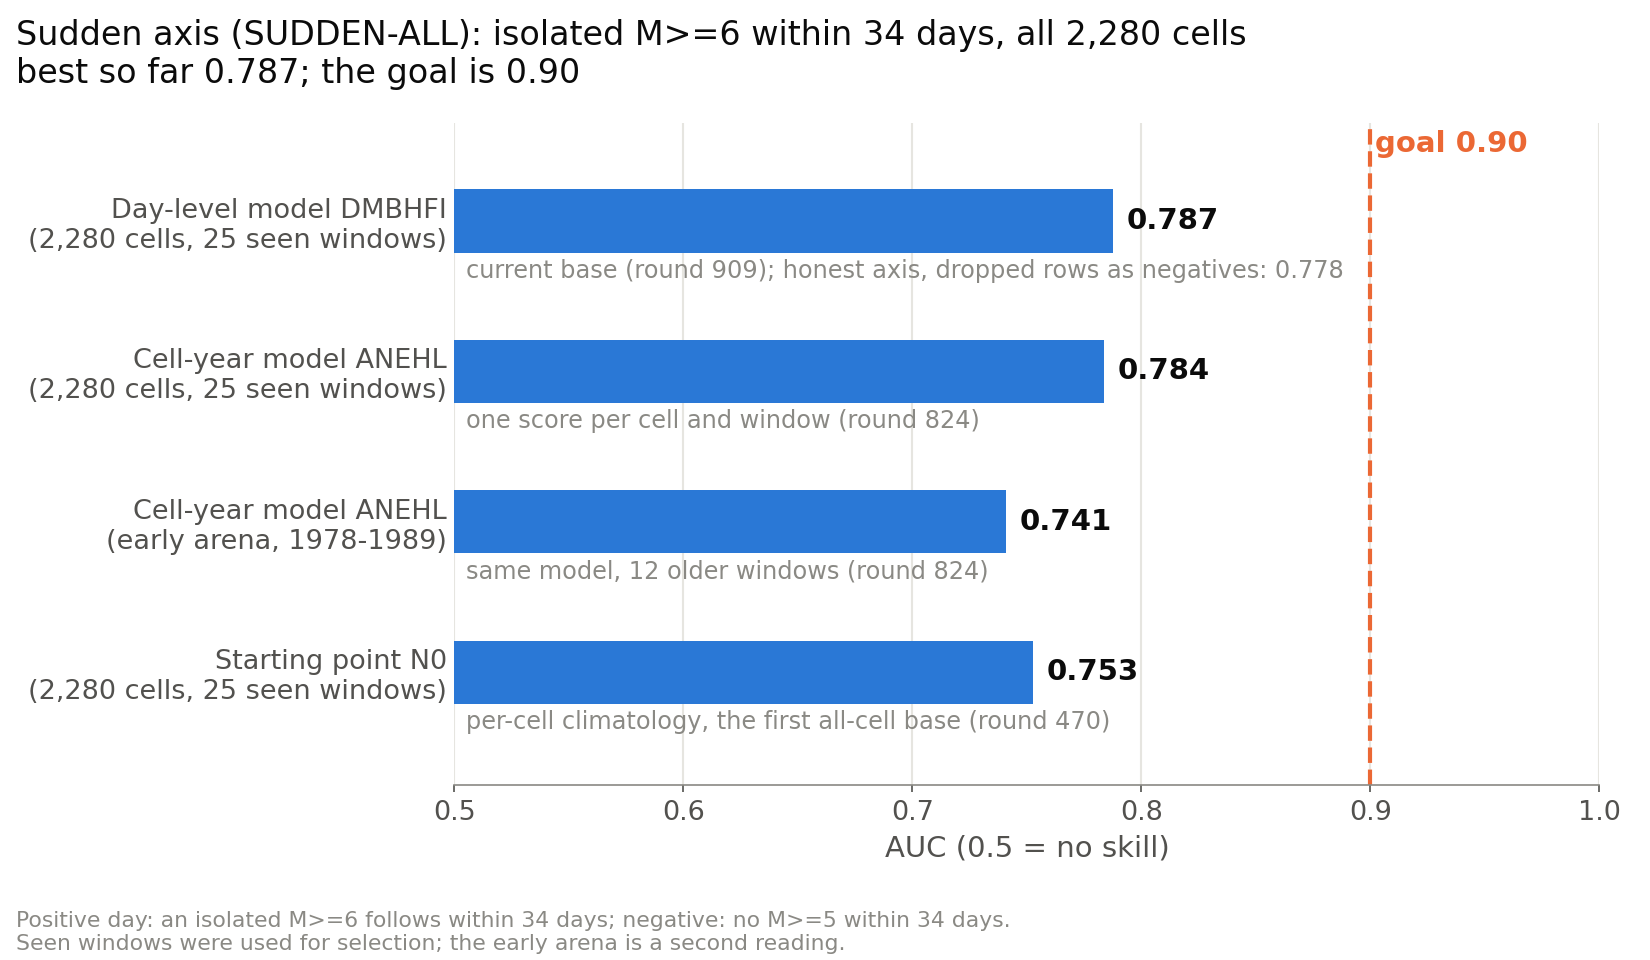
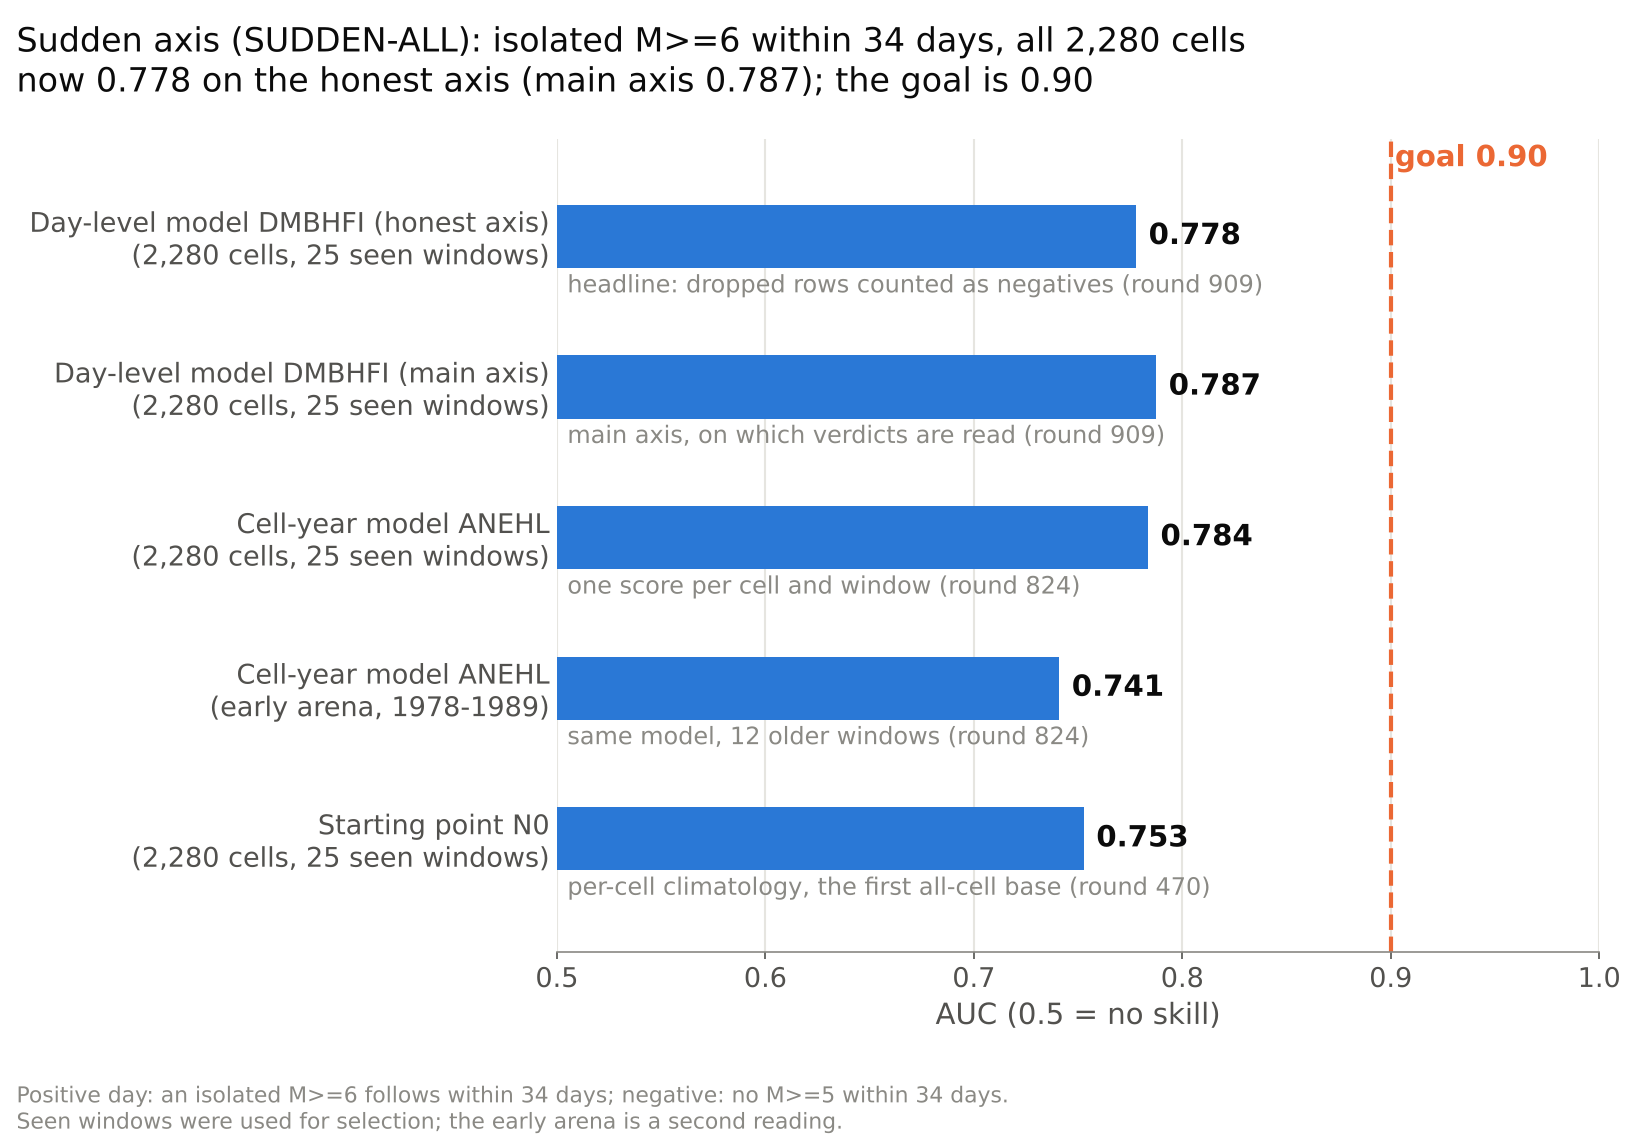
Update 196; honest axis 0.778 as the headline (#233)
* Add a note: older pooled 0.90-0.92 AUCs are not sudden-mainshock skill

Claude-Session: https://claude.ai/code/session_01Qxf5chyvwNeB8zBdWUwujx

* Update 196; honest axis 0.778 as the headline (note, figure 1); 14 pilot rows

Claude-Session: https://claude.ai/code/session_01Qxf5chyvwNeB8zBdWUwujx

---------

diff --git a/research/sudden_axis/make_figs.py b/research/sudden_axis/make_figs.py
@@ -65,9 +65,12 @@ def fig1():
     ax.set_xlim(0.5, 1.0)
     ax.set_ylim(-0.75, len(rows) - 0.35)
     ax.set_xlabel("AUC (0.5 = no skill)", fontsize=14)
-    hi = max(r["auc"] for r in rows)
+    honest = [r for r in rows if "(honest axis)" in r["arena"]]
+    main = [r for r in rows if "(main axis)" in r["arena"]]
+    assert len(honest) == 1 and len(main) == 1, "stand.csv needs one honest-axis and one main-axis row"
     fig.suptitle("Sudden axis (SUDDEN-ALL): isolated M>=6 within 34 days, all 2,280 cells\n"
-                 "best so far %.3f; the goal is %.2f" % (hi, GOAL), fontsize=16, x=0.01, ha="left", color=INK)
+                 "now %.3f on the honest axis (main axis %.3f); the goal is %.2f"
+                 % (honest[0]["auc"], main[0]["auc"], GOAL), fontsize=16, x=0.01, ha="left", color=INK)
     style(ax)
     fig.text(0.01, 0.01, "Positive day: an isolated M>=6 follows within 34 days; negative: no M>=5 within 34 days.\n"
              "Seen windows were used for selection; the early arena is a second reading.", fontsize=10.5, color=MUTED)

diff --git a/RESEARCH-LOG.md b/RESEARCH-LOG.md
@@ -8,7 +8,7 @@
 >
 > 本リポジトリは個人の研究および開発の記録です。地震の予知・予測・予報・警報その他の運用情報ではなく、いかなる警報も発信しません。記載の数値は公開カタログを用いた事後的な研究指標であり、探索段階のもので、誤りを含む可能性があり、実運用に向けた検証は行っていません。安全確保・避難・事業判断その他の防災上の判断に、本リポジトリの内容を用いないでください。日本の地震・火山の公式情報は気象庁（https://www.jma.go.jp/）および各自治体の発表をご確認ください。本リポジトリの内容は現状のまま無保証で提供され、利用により生じたいかなる損害についても作者は責任を負いません。データの権利は Data Attribution 節に記載の各提供元に帰属します。
 
-> **Note on the 0.90-0.92 figures in older entries (added 2026-11-19).** The AUCs of about 0.90-0.92 in earlier updates (mostly 55-116, e.g. 0.907265, 0.9207) are *pooled* figures. Most of their skill comes from aftershock positives, so they do not measure skill at forecasting sudden (isolated) mainshocks. Since update 189 the main yardstick is the SUDDEN-ALL axis, where the current working series reads **0.787474** (honest axis 0.778). The goal of 0.90 has not been reached. The older entries are kept unedited.
+> **Note on the 0.90-0.92 figures in older entries (added 2026-11-19).** The AUCs of about 0.90-0.92 in earlier updates (mostly 55-116, e.g. 0.907265, 0.9207) are *pooled* figures. Most of their skill comes from aftershock positives, so they do not measure skill at forecasting sudden (isolated) mainshocks. Since update 189 the main yardstick is the SUDDEN-ALL axis, where the current working series reads **0.778** on the honest axis (dropped rows counted as negatives) and 0.787474 on the main axis, on which verdicts are read. The goal of 0.90 has not been reached. The older entries are kept unedited.
 
 Every research narrative entry from the README, moved here unchanged on 2026-08-23 when the file passed 2,000 lines.  The entries are in the order they were written, oldest first; the index below is newest first.  Nothing has been edited: each entry is the line that was published, byte for byte, with a heading added above it so it can be linked to.
 
@@ -16,6 +16,7 @@ Every research narrative entry from the README, moved here unchanged on 2026-08-
 
 | # | date | what it says |
 |---|---|---|
+| [196](#update-196-2026-11-22) | 2026-11-22 | rounds 1043-1068: a campaign toward 0.80 with look-ahead room checks before any arm (0 of 8 slots used), the feature space on and beyond the base read for room, eight more non-catalogue sources; nothing moved the number (honest axis 0.778, main axis 0.787474) |
 | [195](#update-195-2026-11-18) | 2026-11-18 | rounds 992-1042: new catalogue parameter groups and more than twenty non-catalogue sources read, none admitted; the missing order lies mostly in quiet-looking cells and between strata; three more arms frozen for 2027 |
 | [194](#update-194-2026-11-17) | 2026-11-17 | where the working series stands (0.787474, unchanged since round 909) and what is read next: frozen arms rebuilt on window 36, 2027 fits after 2026-12-15 |
 | [193](#update-193-2026-11-17) | 2026-11-17 | events below the catalogue floor: the one family with a reading beyond its nulls is not supported as a route at this size; an offshore reading after the seafloor networks is frozen for re-reading |
@@ -1013,3 +1014,7 @@ Every research narrative entry from the README, moved here unchanged on 2026-08-
 ## update 195 (2026-11-18)
 
 **2026-11-18 update 195 (rounds 992 to 1042: about thirty new catalogue parameter groups and more than twenty further non-catalogue sources read, none admitted; the missing order lies mostly in quiet-looking cells and between strata; three more arms frozen for 2027).** The main number has not moved: 0.787474 on the 25 seen windows of the main sudden axis (honest axis 0.777844), 0.1125 short of 0.90. Before the prospective fits, the frozen arms were ported so that they can be fitted on window 37, and a port was accepted only if the same code in window-36 mode reproduces the stored prediction: 42 of 42 do. On the catalogue side I read parameter families that no earlier round had read, on the cell-year screen of update 190 (seen gain at least 0.0006 with t at least 3, and early gain above 0): cycle phase with the cell's own regularity, outer-rise state, natural-time nowcasting, depth migration, magnitude correlation and regional synchrony (995), the rupture character of recent events (997), the loading budget of a cell (elapsed time scaled by loading rate, moment deficit, last-event size and age; 1000), tidal sensitivity of a cell's own events (1005), fractal dimension, entropy and Hurst exponent of event sequences, along-strike segment state and load-unload response ratio (1006), focal-mechanism diversity, precursory-swarm state and recurrence-network measures (1011), and method arms on the same screen (pruning base column groups 1003, one shrunk residual coefficient per group on the frozen base logit 1009, a correction fitted inside the quiet stratum 1013, trailing averages of the fitted coefficients 1021). None was admitted. Over the 30 cell-year groups read since 995 the seen gain was above 0 in 2 and the early gain was negative in 22 of 22; pure-noise groups cost about 0.00035 on the early arena (1003) and the real groups lose more; families with raw effects of +0.35 to +0.55 sd (cycle phase, loading budget) read about 0 once the base's own time-since-last and count columns are held fixed. The one seen pass (the quiet-stratum correction, +0.000469, t 3.03) lost on the early arena (-0.000275). I checked three explanations of this seen / early sign flip: thinning the modern catalogue to the pre-1990 detection level keeps the seen gain (+0.000394; 1014), matching the history length before the cut changes nothing (1019), and the cell-year model itself fits a different function in each era (its mean coefficient vectors correlate at Spearman +0.045 between the eras, and the seen windows scored with the early era's coefficients drop by 0.0433; 1020), so the early arena stays a fair second reading. New catalogue columns now go only into prospective arms, with no further seen-window readings. On the non-catalogue side each source was a declared pilot through the instrument of update 192: latent heat flux and humidity, sea-level pressure, soil moisture and temperature, skin temperature, wind and precipitable water (NCEP / NCAR Reanalysis 1, Kalnay et al. 1996), tropical cyclones (IBTrACS v04r01, Knapp et al. 2010), surface-loading deformation including non-tidal ocean-bottom pressure (ESMGFZ, Dill and Dobslaw 2013), solid-Earth tidal stress, ocean-wave height (WAVEWATCH III hindcast), daily sea-surface temperature (NOAA OISST v2.1, Huang et al. 2021), solar wind (OMNI2, NASA SPDF), the ocean interior (Argo, Roemmich and Gilson 2009), OMI total ozone and aerosol index, satellite lightning (LIS / OTD), AIRS skin temperature, CO and ozone, ocean colour (ESA OC-CCI v6.0, Sathyendranath et al. 2019), Swarm electron density and plasma-bubble index (ESA), volcanic thermal anomalies (MODIS via NASA FIRMS near Holocene volcanoes of the Smithsonian GVP), seismic-noise H / V and spectral slope (EarthScope MUSTANG), and two existence tests sized to fit, groundwater levels in dense arenas (USGS NWIS) and dv/v from single-station noise autocorrelation (248 mainshocks, coverage 0.12): none reached its gate, and tide gauges at day level stopped at coverage 0.2632. A meta-analysis (meta1040) counts 26 of 1,885 non-catalogue readings since pilot 960 passing their nulls against about 94 by chance, and puts their summed optimistic gain at 2.9-3.7% of the 0.1125 gap; the largest interval end at coverage of at least 0.3 is 0.138 (Argo) against 0.183 needed at coverage 1. Where the missing order lies: splitting the cells by the rank of the cell-year model (0.783541), the quiet-looking lowest 70% of cells holds 0.306 of the firing cells and is ordered at 0.692 inside; ordering every stratum perfectly would give 0.8821 (0.8640 on the early arena) against 0.9853 for perfect cell classification, so the rest lies between strata. Inside the quiet stratum the gridded non-catalogue sources reach 0.49 to 0.96 of the firing cells and order nothing (effects of about 0.2 to 0.45 sd are excluded at the logged power); a below-floor small-event ratio read +0.0710 in within-bin AUC (z 2.89, Holm-adjusted 0.163) on 212 firing cells and was not confirmed on M5.0-5.9 mainshocks (-0.0083; 1024), so it is frozen as one prospective test. Of the 634 quiet firing cell-windows, 343 have no small-event information from any source read so far, and 315 of the 634 are in cells without land. Three arms were frozen before the cut of the 2027 fits (2026-12-15), with no seen reading: 982 (the below-floor ratio column from regional catalogues, update 193), B2 (1031: the cell-year model plus the clustering columns of screen 947 and the quiet-stratum correction) and B3 (1039: the cell-year model plus a quiet-gated correction with one static column, log PGA of the GEM Global Seismic Hazard Map v2026.1, CC BY-NC-SA 4.0; the map was published in June 2026, inside the scored part of 2026, so B3's reading on 2026 carries that caveat). The schedule is unchanged: after 2026-12-15 every frozen arm is fitted for window 37 (2027), with commit hashes before 2027-02-01, and on or after 2027-03-01 the rest of 2026 is scored. The goal of a genuine 0.90 is held open.
+
+## update 196 (2026-11-22)
+
+**2026-11-22 update 196 (rounds 1043 to 1068: a campaign toward 0.80 with room checks before any arm, the feature space on and beyond the base read for look-ahead room, and eight more non-catalogue sources; nothing moved the number and 0 of 8 campaign slots were used).** The headline number has not moved: 0.778 on the honest axis (0.777844; dropped rows counted as negatives) and 0.787474 on the main sudden axis, on which verdicts are read, over the 25 seen windows. None of the readings since update 195 moved either number. As an intermediate step toward 0.90, a campaign toward 0.80 was opened under a frame written before any arm: at most eight large method or model arms, each run only after a declared look-ahead diagnostic shows at least +0.003 of room, admitted only at a seen gain of at least +0.002 with t at least 3, Holm-adjusted over the eight slots, and an early gain above 0, and confirmed only on the prospective windows. Room checks on the catalogue base: re-weighting the cell-year model's columns gives +0.00049 even with a look-ahead fit (1043), a joint day-level fit -0.0004 (1045) and a flexible Hawkes score +0.000091 (1047). The one large room is look-ahead: knowing each region's number of firing cells in the scored window would add +0.0076 at 8 regions and +0.0354 at 30 (1044), and the room is that count itself (perfect same-window moderate activity adds about +0.0002). The regional counts are not predictable from the past (dispersion inside the null; causal correlation -0.008 / -0.009 against 0.27 needed at 30 regions; 1046), and climate and global year factors (ONI, PDO, IOD, AMO, SOI, QBO, global mean sea level, length of day) do not predict them either: the combined correlation is -0.029 at 30 regions, with no verdict because the 23-feature design could not reach the rule on 21 windows, and the single indices are a readable null (1063). Demoting active-looking cells that do not fire is worth +0.0053 at the 1% level even with look-ahead, and five causal exhaustion proxies lose (-0.0016 to -0.0033; 1051): recent large release, aftershock-dominated activity and a falling rate mark cells that are more, not less, likely to host the next isolated M6. A calibration over all recorded pairs (1052) converts a within-bin reading inside the quiet stratum into about 0.0078 on the main axis per unit at full coverage, so +0.003 would need a within-bin effect of 0.39 against at most 0.071 recorded. Then the feature space was read for look-ahead room against permuted and noise versions of the same columns (rule: at least +0.003 above both nulls with the interval excluding 0; planted effects of +0.0075 to +0.0275 were read back in every design): transforms, products and ratios of the base's 75 columns (8,716 features; +0.000291 above the permuted null; 1059), boosted trees from the base logit (+0.001823; 1060), the non-catalogue fields used jointly and with the cell state (17 fields 2001-2025: -0.001336; 33 fields 2011-2017: +0.000540; 1058), 40 compounds of quantities outside the base, among them region-relative ranks, coupling ratios scaled by the geodetic strain-rate model (GSRM v2.1, CC BY-NC-SA 3.0), the tidal state times a cell's own tidal sensitivity, and burstiness (+0.001982 for trees; 1061), 35 spatial-pattern compounds (ring-against-centre doughnut activity, along-strike and up-dip asymmetry, directed neighbour lead-lag and transfer entropy, fill-in state; +0.001000 for trees; 1066), a learned spatial model over the cell graph with the base logit as offset (+0.000174 above the permuted null and +0.000961 above noise, 0 over the base, because the hold-out block chose the untrained model in every fold; 1067; on the early arena the planted effect was not recovered, so that reading has no power), and three-way products and time-scale ratios of the gridded fields (+0.000023 / +0.000284; 1068): no room at this size in any of them. On the non-catalogue side each source was a declared pilot through the instrument of update 192: full single-station dv/v from 494 stations (coverage 0.16-0.17; 4 of 57 blocks pass their nulls, with small and mostly negative effects, the largest -0.148 sd; 1048), ocean-bottom pressure (ECCO V4r4), sea-surface salinity (OISSS) and column CO2 (OCO-2) (|S| <= 0.097; 1049), total cloud fraction (ISCCP-H, NOAA NCEI; |S| <= 0.033; 1055), ionospheric F2-peak density and height from radio occultation (COSMIC-1, UCAR CDAAC; |S| <= 0.079; 1056), column methane (Sentinel-5P TROPOMI; coverage 0.018-0.034; 1057) and ocean surface currents and eddy energy (geostrophic currents from Aviso and NOAA CoastWatch; |S| <= 0.081; 1064): all fail at this size, and the neutral atmosphere from radio occultation (coverage 0.1968) and Swarm thermospheric density (coverage bound 0.2942) stopped at coverage before any effect was read (1065). A novelty sweep (1054) found no further free family credible for +0.0125. A meta-analysis (meta1062) counts 35 of 2,174 non-catalogue readings since pilot 960 passing their nulls against about 109 by chance, puts their summed optimistic gain at 5.1% of the 0.1125 gap, and finds that every room of the size 0.80 needs is knowledge of the scored period's own labels (which cells fire, how many per region, when inside a firing cell-year, the era's own fit), while no causal reading of any of these kinds has reached +0.001 on the seen windows. One input changed at its source: the ISC bulletin now loads 1,080,347 events against 1,078,728 at the October fetch; on the current files the day-level model reproduces at 0.777843 on the honest axis and 0.787472 on the main axis, and a dated addendum, written before any 2027 label is read, fixes how the ISC-dependent frozen arms are fitted: through copies that differ from the frozen scripts in the input-hash line only, on a fresh fetch whose hash is committed before the fit, with the window-36 difference reported. Next: the December coverage-first audit of newly opened seafloor-network data for the quiet firing cells without small-event information, and a further planning step before any new family; after 2026-12-15 every frozen arm is fitted for window 37 (2027), with commit hashes before 2027-02-01, and on or after 2027-03-01 the rest of 2026 is scored. The goal of a genuine 0.90 is held open.

diff --git a/README.md b/README.md
@@ -16,7 +16,7 @@ Real-time monitoring dashboard for Japan's geophysical activity — earthquakes,
 
 ## Sudden-earthquake axis at a glance
 
-> **Note on the 0.90-0.92 figures in older entries (added 2026-11-19).** The AUCs of about 0.90-0.92 in earlier updates (mostly 55-116, e.g. 0.907265, 0.9207) are *pooled* figures. Most of their skill comes from aftershock positives, so they do not measure skill at forecasting sudden (isolated) mainshocks. Since update 189 the main yardstick is the SUDDEN-ALL axis, where the current working series reads **0.787474** (honest axis 0.778). The goal of 0.90 has not been reached. The older entries are kept unedited.
+> **Note on the 0.90-0.92 figures in older entries (added 2026-11-19).** The AUCs of about 0.90-0.92 in earlier updates (mostly 55-116, e.g. 0.907265, 0.9207) are *pooled* figures. Most of their skill comes from aftershock positives, so they do not measure skill at forecasting sudden (isolated) mainshocks. Since update 189 the main yardstick is the SUDDEN-ALL axis, where the current working series reads **0.778** on the honest axis (dropped rows counted as negatives) and 0.787474 on the main axis, on which verdicts are read. The goal of 0.90 has not been reached. The older entries are kept unedited.
 
 The main research question is whether isolated mainshocks (earthquakes with no foreshock sequence and no recent
 precedent in their cell) can be forecast with genuine skill. The main yardstick is the SUDDEN-ALL axis: days of all

diff --git a/docs/update-digest.md b/docs/update-digest.md
@@ -1177,3 +1177,13 @@ more than twenty further non-catalogue sources, none at its gate (26 of 1,885 re
 nulls against about 94 by chance); the quiet-looking 70% of cells holds 0.306 of firing cells,
 ordering every stratum perfectly gives 0.8821, 343 of 634 quiet firing cell-windows have no
 small-event information, and three more arms are frozen for the 2027 fits (update 195).
+
+The headline stays at 0.778 on the honest axis (0.777844; main axis 0.787474, on which verdicts are read).
+A campaign toward 0.80 (at most eight arms, each only after a declared look-ahead room of +0.003) used 0
+of 8 slots: rooms on the catalogue base are small or look-ahead only (regional firing counts +0.0076 at 8
+regions, not predictable from the past or from climate indices), and transforms, trees, outside and
+spatial-pattern compounds, a learned cell-graph model and three-way products show no room at this size;
+eight more non-catalogue sources (full dv/v, ocean-bottom pressure, salinity, CO2, cloud fraction, radio
+occultation, methane, ocean currents) fail at this size, 35 of 2,174 readings since pilot 960 pass their
+nulls against about 109 by chance, and the ISC-dependent arms are fitted in 2027 through hash-line copies
+(update 196).
